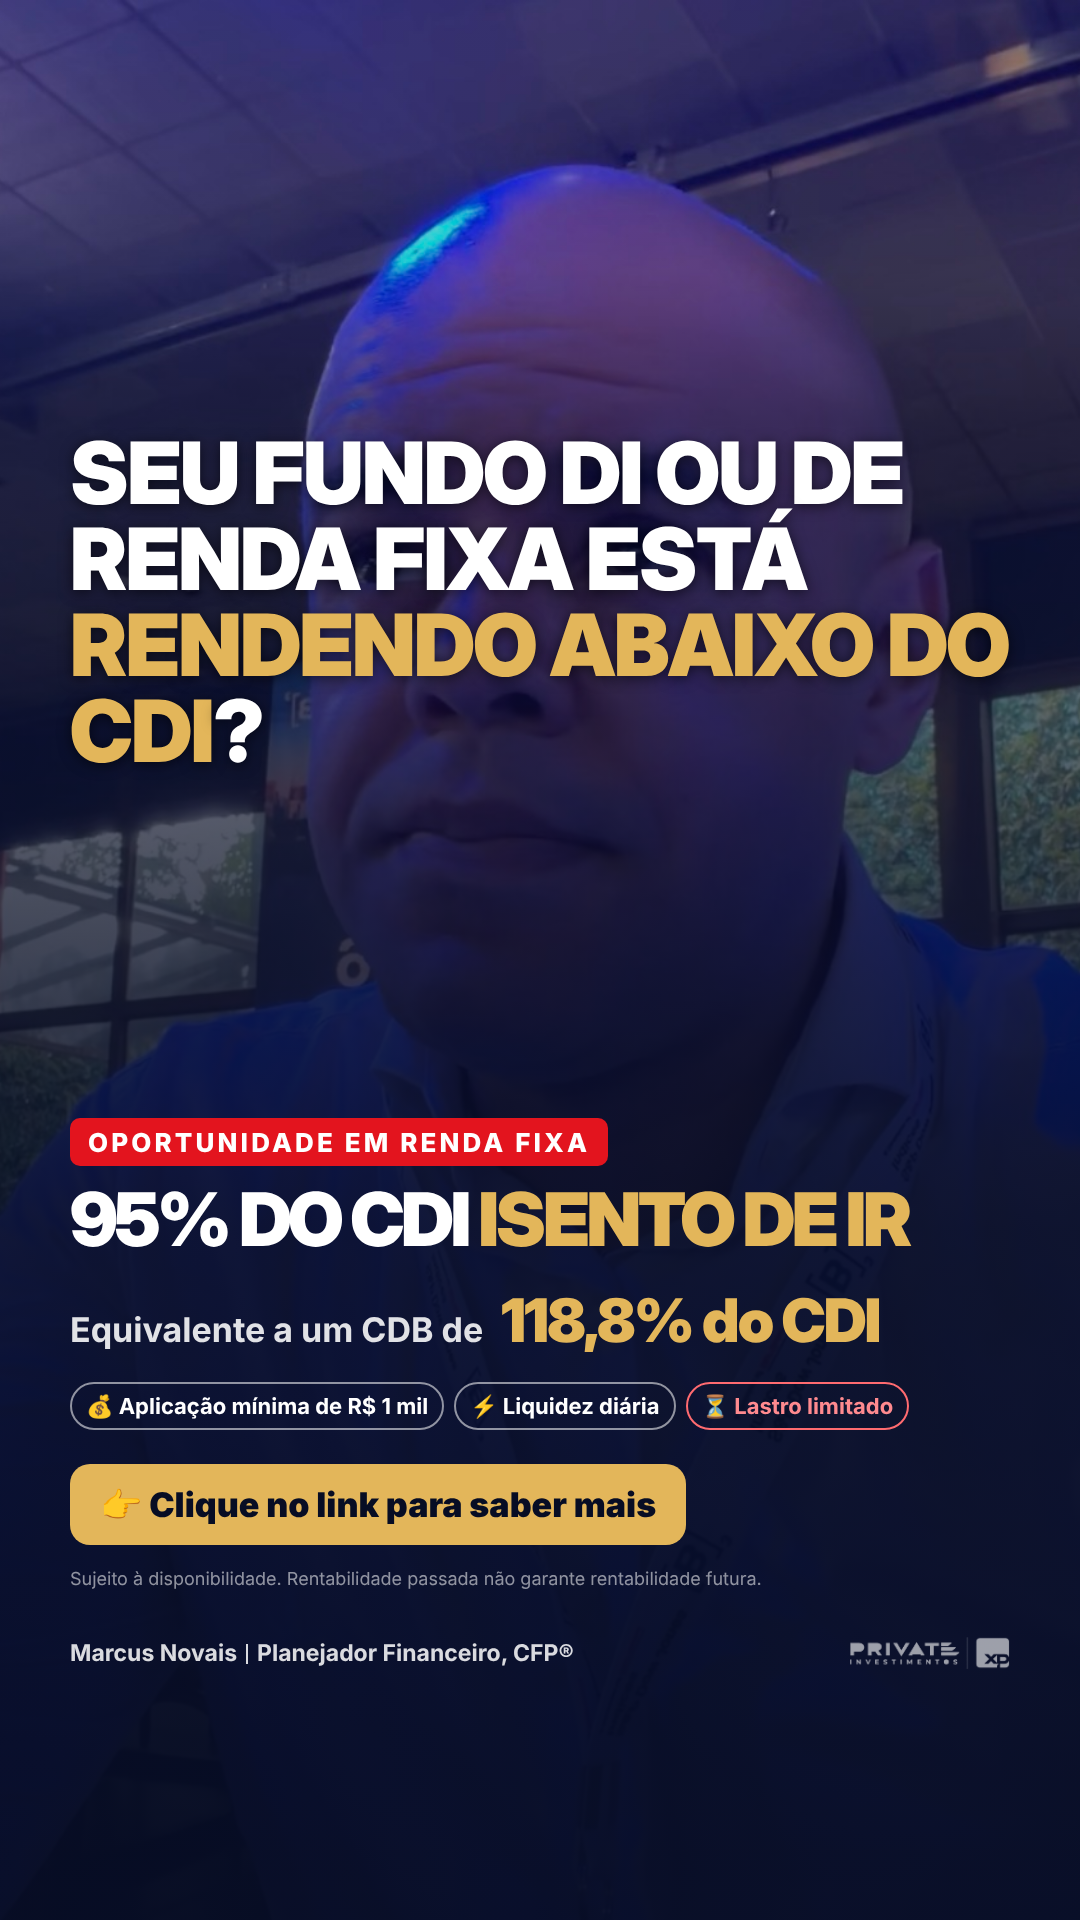
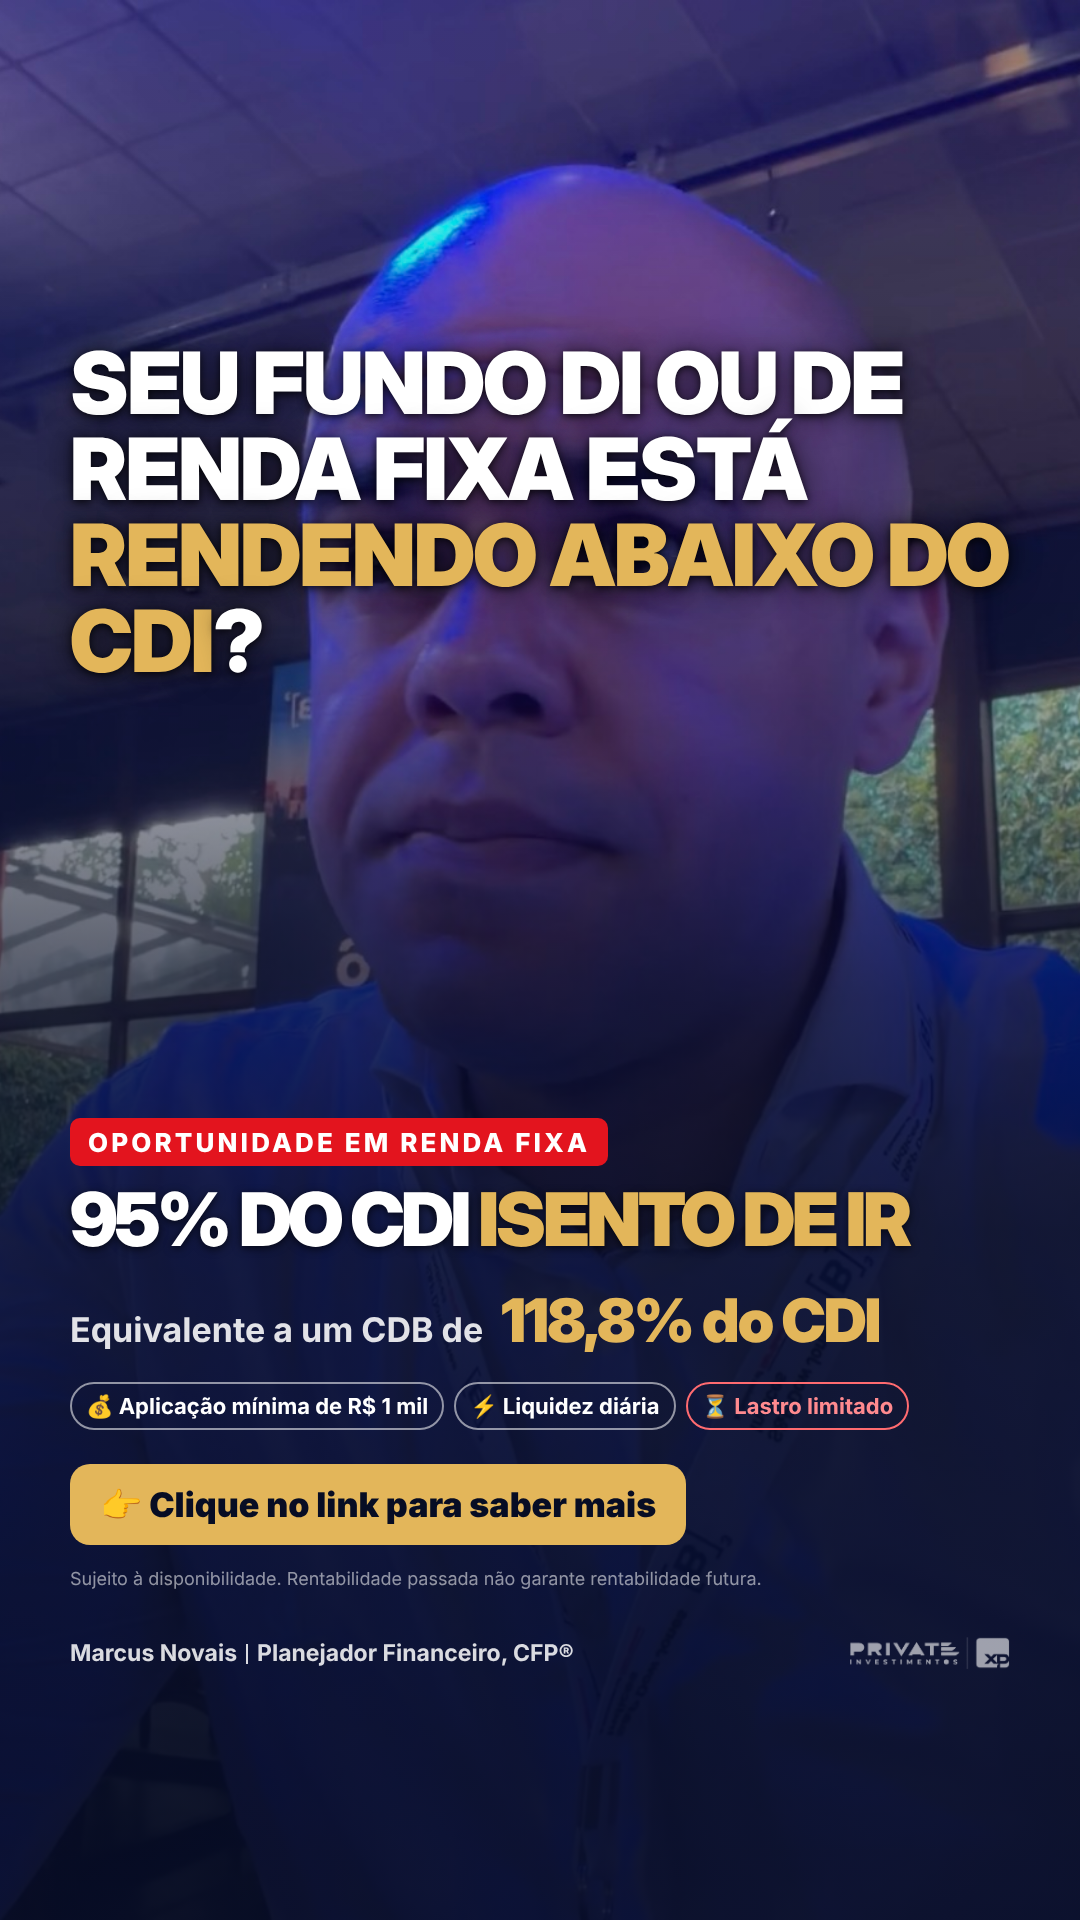
Post 95% CDI isento: título mais alto e fundo azul mais transparente
Claude-Session: https://claude.ai/code/session_01JkBXj6tz5hpSkGAznkwYEm

Changed region(s): [[0.0, 0.1562, 1.0, 0.5312]]

diff --git a/post-isento-95cdi/post.html b/post-isento-95cdi/post.html
@@ -7,13 +7,13 @@
   .p.st { height:1920px; }
   body.single .p { display:none; } body.single .p.on { display:block; }
   .bg { position:absolute; inset:0; } .bg img { width:100%; height:100%; object-fit:cover; object-position:50% 22%; }
-  .sh { position:absolute; inset:0; background:linear-gradient(180deg, rgba(7,13,36,.15) 0%, rgba(7,13,36,.2) 14%, rgba(7,13,36,.5) 22%, rgba(7,13,36,.65) 40%, rgba(7,13,36,.8) 52%, rgba(7,13,36,.9) 64%, rgba(7,13,36,.96) 100%); }
+  .sh { position:absolute; inset:0; background:linear-gradient(180deg, rgba(7,13,36,.05) 0%, rgba(7,13,36,.1) 12%, rgba(7,13,36,.25) 22%, rgba(7,13,36,.4) 40%, rgba(7,13,36,.7) 52%, rgba(7,13,36,.85) 64%, rgba(7,13,36,.9) 100%); }
   .top { position:absolute; left:70px; right:70px; }
-  .hook { font-family:"Inter Display","Inter",sans-serif; font-weight:900; text-transform:uppercase; font-size:86px; line-height:1; letter-spacing:-.02em; text-shadow:0 2px 14px rgba(0,0,0,.6); }
+  .hook { font-family:"Inter Display","Inter",sans-serif; font-weight:900; text-transform:uppercase; font-size:86px; line-height:1; letter-spacing:-.02em; text-shadow:0 2px 8px rgba(0,0,0,.8), 0 0 30px rgba(0,0,0,.6); }
   .hook em { font-style:normal; color:#e3b65a; }
   .bot { position:absolute; left:70px; right:70px; }
   .pill { display:inline-block; background:#e3141e; color:#fff; font-weight:800; font-size:26px; letter-spacing:.12em; text-transform:uppercase; padding:9px 18px 8px; border-radius:10px; }
-  h1 { font-family:"Inter Display","Inter",sans-serif; font-weight:900; text-transform:uppercase; font-size:74px; line-height:1; letter-spacing:-.045em; margin-top:16px; white-space:nowrap; }
+  h1 { text-shadow:0 2px 8px rgba(0,0,0,.7); font-family:"Inter Display","Inter",sans-serif; font-weight:900; text-transform:uppercase; font-size:74px; line-height:1; letter-spacing:-.045em; margin-top:16px; white-space:nowrap; }
   h1 em { font-style:normal; color:#e3b65a; }
   .eq { display:flex; align-items:baseline; gap:18px; margin-top:34px; }
   .eq .v { white-space:nowrap; font-family:"Inter Display","Inter",sans-serif; font-weight:900; font-size:60px; color:#e3b65a; letter-spacing:-.03em; line-height:1; }
@@ -27,7 +27,7 @@
   .foot span { display:inline-block; width:2px; height:20px; background:rgba(255,255,255,.85); margin:0 9px -3px; }
   .foot img { height:34px; opacity:.6; filter:brightness(0) invert(1); }
   .p:not(.st) .hook { font-size:84px; }
-  .p:not(.st) .sh { background:linear-gradient(180deg, rgba(7,13,36,.1) 0%, rgba(7,13,36,.2) 18%, rgba(7,13,36,.5) 28%, rgba(7,13,36,.7) 45%, rgba(7,13,36,.88) 56%, rgba(7,13,36,.95) 100%); }
+  .p:not(.st) .sh { background:linear-gradient(180deg, rgba(7,13,36,.05) 0%, rgba(7,13,36,.1) 15%, rgba(7,13,36,.25) 28%, rgba(7,13,36,.45) 45%, rgba(7,13,36,.75) 58%, rgba(7,13,36,.9) 100%); }
 </style></head>
 <body>
 <script>
@@ -40,7 +40,7 @@ const body=(top,bot,foot)=>`<div class="bg"><img src="marcus.jpg"></div><div cla
   <div class="btn">👉 Clique no link para saber mais</div>
   <div class="fine">Sujeito à disponibilidade. Rentabilidade passada não garante rentabilidade futura.</div></div>
  <div class="foot" style="bottom:${foot}px"><div>Marcus Novais<span></span>Planejador Financeiro, CFP®</div><img src="logo-private-xp.png"></div>`;
-for (const [cls,top,bot,foot] of [['p',300,115,50],['p st',430,330,250]]) { const s=document.createElement('section'); s.className=cls; s.innerHTML=body(top,bot,foot); document.body.appendChild(s); }
+for (const [cls,top,bot,foot] of [['p',230,115,50],['p st',340,330,250]]) { const s=document.createElement('section'); s.className=cls; s.innerHTML=body(top,bot,foot); document.body.appendChild(s); }
 const all=[...document.querySelectorAll('.p')];
 window.show=i=>{document.body.classList.add('single');all.forEach((s,j)=>s.classList.toggle('on',j===i));};
 </script>
